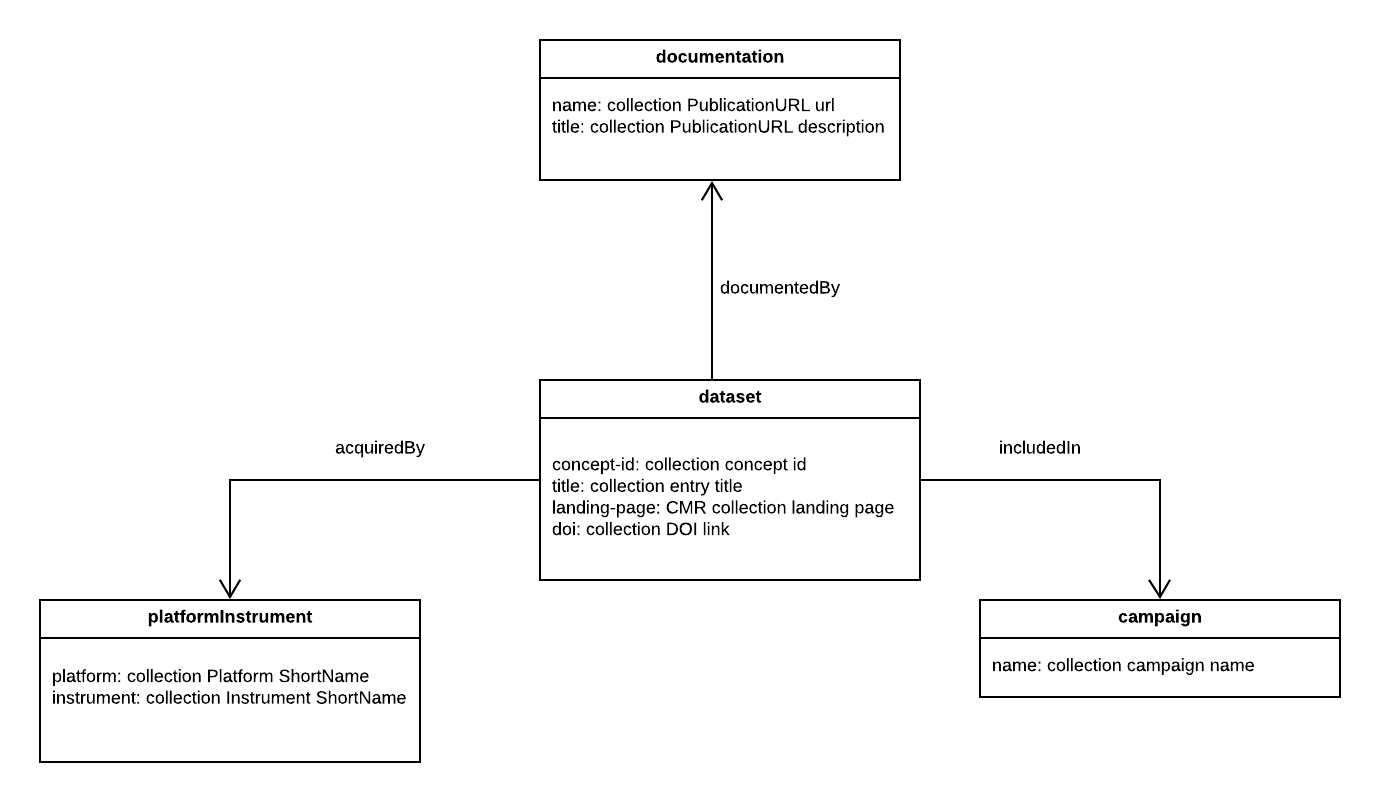
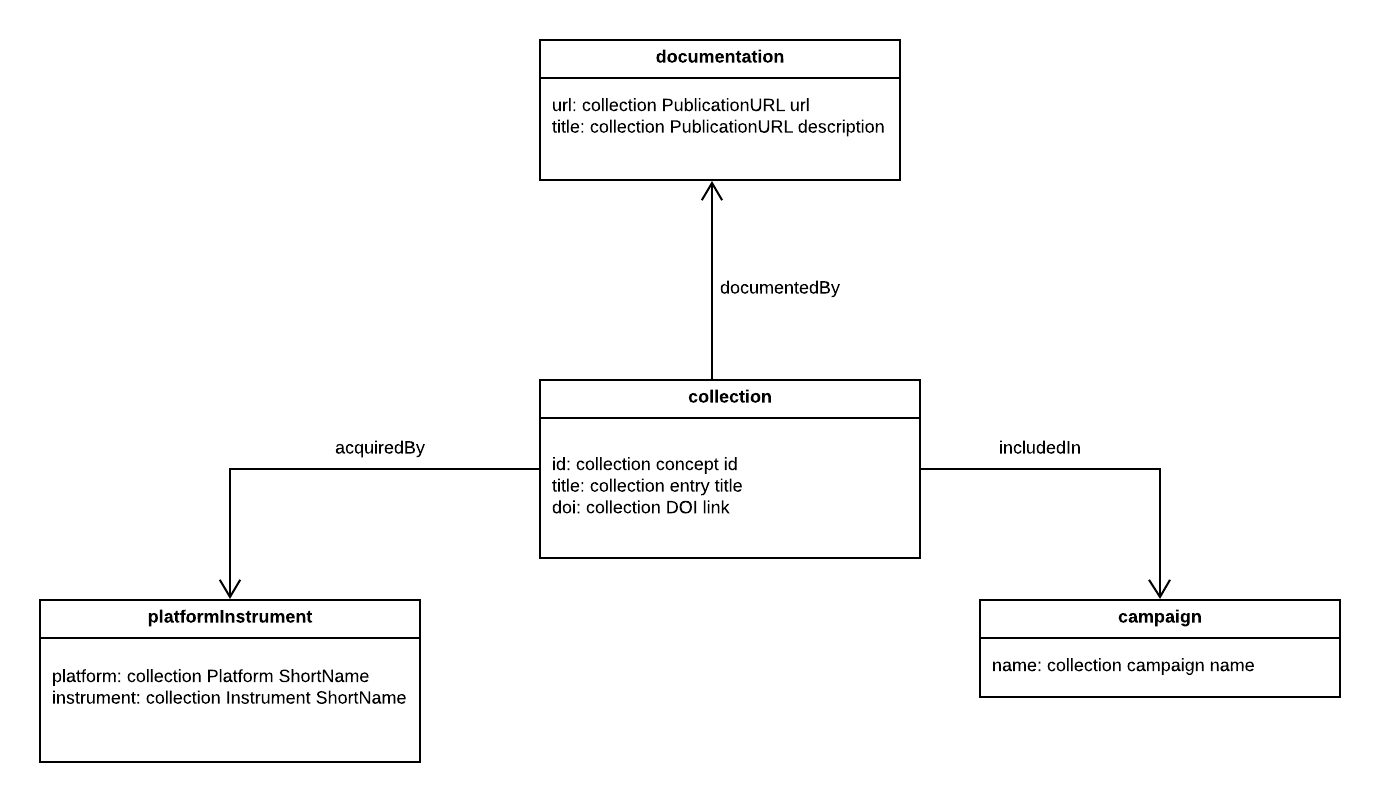
CMR-7602: Clean up canonical properties and rename dataset vertex.

diff --git a/graph-db/serverless/src/utils/cmr/indexCmrCollection.js b/graph-db/serverless/src/utils/cmr/indexCmrCollection.js
@@ -10,11 +10,11 @@ const gremlinStatistics = gremlin.process.statics
 
 /**
  * Given a collection from the CMR, index it into Gremlin
- * @param {JSON} collection collection object from `items` array in cmr response
+ * @param {JSON} collectionObj collection object from `items` array in cmr response
  * @param {Gremlin Traversal Object} gremlinConnection connection to gremlin server
  * @returns
  */
-export const indexCmrCollection = async (collection, gremlinConnection) => {
+export const indexCmrCollection = async (collectionObj, gremlinConnection) => {
   const {
     meta: {
       'concept-id': conceptId
@@ -28,35 +28,24 @@ export const indexCmrCollection = async (collection, gremlinConnection) => {
       Platforms: platforms,
       RelatedUrls: relatedUrls
     }
-  } = collection
+  } = collectionObj
 
   // delete the collection first so that we can clean up its related documentation vertices
   await deleteCmrCollection(conceptId, gremlinConnection)
 
-  let doiUrl = 'Not provided'
-  let landingPage = `${process.env.CMR_ROOT}/concepts/${conceptId}.html`
-
-  if (doiDescription) {
-    // Take the second element from the split method
-    const [, doiAddress] = doiDescription.split(':')
-    doiUrl = `https://dx.doi.org/${doiAddress}`
-    landingPage = doiUrl
-  }
-
-  let dataset = null
+  let collection = null
   try {
     // Use `fold` and `coalesce` to check existance of vertex, and create one if none exists.
-    dataset = await gremlinConnection
+    collection = await gremlinConnection
       .V()
-      .hasLabel('dataset')
-      .has('concept-id', conceptId)
+      .hasLabel('collection')
+      .has('id', conceptId)
       .fold()
       .coalesce(
         gremlinStatistics.unfold(),
-        gremlinConnection.addV('dataset')
-          .property('landing-page', landingPage)
+        gremlinConnection.addV('collection')
           .property('title', entryTitle)
-          .property('concept-id', conceptId)
+          .property('id', conceptId)
           .property('doi', doiDescription || 'Not provided')
       )
       .next()
@@ -66,28 +55,28 @@ export const indexCmrCollection = async (collection, gremlinConnection) => {
     return false
   }
 
-  const { value = {} } = dataset
-  const { id: datasetId } = value
+  const { value = {} } = collection
+  const { id: collectionId } = value
 
   if (projects && projects.length > 0) {
     await projects.forEachAsync(async (project) => {
-      await indexCampaign(project, gremlinConnection, datasetId, conceptId)
+      await indexCampaign(project, gremlinConnection, collectionId, conceptId)
     })
   }
 
   if (platforms && platforms.length > 0) {
     await platforms.forEachAsync(async (platform) => {
-      await indexPlatform(platform, gremlinConnection, datasetId, conceptId)
+      await indexPlatform(platform, gremlinConnection, collectionId, conceptId)
     })
   }
 
   if (relatedUrls && relatedUrls.length > 0) {
     await relatedUrls.forEachAsync(async (relatedUrl) => {
-      await indexRelatedUrl(relatedUrl, gremlinConnection, datasetId, conceptId)
+      await indexRelatedUrl(relatedUrl, gremlinConnection, collectionId, conceptId)
     })
   }
 
-  console.log(`Dataset vertex [${datasetId}] indexed for collection [${conceptId}]`)
+  console.log(`Collection vertex [${collectionId}] indexed for collection [${conceptId}]`)
 
   return true
 }

diff --git a/graph-db/serverless/src/testUtil/verifyDocumentation.js b/graph-db/serverless/src/testUtil/verifyDocumentation.js
@@ -2,11 +2,11 @@ import gremlin from 'gremlin'
 
 const gremlinStatistics = gremlin.process.statics
 
-export const verifyDocumentationExistInGraphDb = async (datasetTitle, docName) => {
+export const verifyDocumentationExistInGraphDb = async (datasetTitle, url) => {
   // verify the dataset vertex with the given title exists
   const dataset = await global.testGremlinConnection
     .V()
-    .has('dataset', 'title', datasetTitle)
+    .has('collection', 'title', datasetTitle)
     .next()
   const { value: { id: datasetId } } = dataset
   expect(datasetId).not.toBe(null)
@@ -14,7 +14,7 @@ export const verifyDocumentationExistInGraphDb = async (datasetTitle, docName) =
   // verify the documentation vertex with the given name exists
   const doc = await global.testGremlinConnection
     .V()
-    .has('documentation', 'name', docName)
+    .has('documentation', 'url', url)
     .next()
   const { value: { id: docId } } = doc
   expect(docId).not.toBe(null)
@@ -22,20 +22,20 @@ export const verifyDocumentationExistInGraphDb = async (datasetTitle, docName) =
   // verify the edge exists between the two vertices
   const record = await global.testGremlinConnection
     .V()
-    .has('dataset', 'title', datasetTitle)
+    .has('collection', 'title', datasetTitle)
     .outE('documentedBy')
     .filter(gremlinStatistics.inV()
-      .has('documentation', 'name', docName))
+      .has('documentation', 'url', url))
     .next()
   const { value: { id: edgeId } } = record
   expect(edgeId).not.toBe(null)
 }
 
-export const verifyDocumentationNotExistInGraphDb = async (datasetTitle, docName) => {
+export const verifyDocumentationNotExistInGraphDb = async (datasetTitle, url) => {
   // verify the dataset vertex with the given title does not exist
   const dataset = await global.testGremlinConnection
     .V()
-    .has('dataset', 'title', datasetTitle)
+    .has('collection', 'title', datasetTitle)
     .next()
   const { value: datasetValue } = dataset
   expect(datasetValue).toBe(null)
@@ -43,7 +43,7 @@ export const verifyDocumentationNotExistInGraphDb = async (datasetTitle, docName
   // verify the documentation vertex with the given name does not exist
   const doc = await global.testGremlinConnection
     .V()
-    .has('documentation', 'name', docName)
+    .has('documentation', 'url', url)
     .next()
   const { value: docValue } = doc
   expect(docValue).toBe(null)

diff --git a/graph-db/serverless/src/testUtil/verifyPlatformInstrument.js b/graph-db/serverless/src/testUtil/verifyPlatformInstrument.js
@@ -30,7 +30,7 @@ const verifyPlatformInstrumentExistInGraphDb = async (
   if (instrumentName) {
     record = await global.testGremlinConnection
       .V()
-      .has('dataset', 'title', datasetTitle)
+      .has('collection', 'title', datasetTitle)
       .outE('acquiredBy')
       .filter(gremlinStatistics.inV()
         .has('platformInstrument', 'platform', platformName)
@@ -39,7 +39,7 @@ const verifyPlatformInstrumentExistInGraphDb = async (
   } else {
     record = await global.testGremlinConnection
       .V()
-      .has('dataset', 'title', datasetTitle)
+      .has('collection', 'title', datasetTitle)
       .outE('acquiredBy')
       .filter(gremlinStatistics.inV()
         .has('platformInstrument', 'platform', platformName))
@@ -54,7 +54,7 @@ export const verifyPlatformInstrumentsExistInGraphDb = async (datasetTitle, attr
   // verify the dataset vertex with the given title exists
   const dataset = await global.testGremlinConnection
     .V()
-    .has('dataset', 'title', datasetTitle)
+    .has('collection', 'title', datasetTitle)
     .next()
   const { value: { id: datasetId } } = dataset
   expect(datasetId).not.toBe(null)
@@ -97,7 +97,7 @@ export const verifyPlatformInstrumentsNotExistInGraphDb = async (datasetTitle, a
   // verify the dataset vertex with the given title does not exist
   const dataset = await global.testGremlinConnection
     .V()
-    .has('dataset', 'title', datasetTitle)
+    .has('collection', 'title', datasetTitle)
     .next()
   const { value: datasetValue } = dataset
   expect(datasetValue).toBe(null)

diff --git a/graph-db/serverless/src/testUtil/verifyCampaign.js b/graph-db/serverless/src/testUtil/verifyCampaign.js
@@ -6,7 +6,7 @@ export const verifyCampaignExistInGraphDb = async (datasetTitle, campaignName) =
   // verify the dataset vertex with the given title exists
   const dataset = await global.testGremlinConnection
     .V()
-    .has('dataset', 'title', datasetTitle)
+    .has('collection', 'title', datasetTitle)
     .next()
   const { value: { id: datasetId } } = dataset
   expect(datasetId).not.toBe(null)
@@ -22,7 +22,7 @@ export const verifyCampaignExistInGraphDb = async (datasetTitle, campaignName) =
   // verify the edge exists between the two vertices
   const record = await global.testGremlinConnection
     .V()
-    .has('dataset', 'title', datasetTitle)
+    .has('collection', 'title', datasetTitle)
     .outE('includedIn')
     .filter(gremlinStatistics.inV()
       .has('campaign', 'name', campaignName))
@@ -35,7 +35,7 @@ export const verifyCampaignNotExistInGraphDb = async (datasetTitle, campaignName
   // verify the dataset vertex with the given title does not exist
   const dataset = await global.testGremlinConnection
     .V()
-    .has('dataset', 'title', datasetTitle)
+    .has('collection', 'title', datasetTitle)
     .next()
   const { value: datasetValue } = dataset
   expect(datasetValue).toBe(null)

diff --git a/graph-db/serverless/src/indexCmrCollection/__test__/handler.test.js b/graph-db/serverless/src/indexCmrCollection/__test__/handler.test.js
@@ -4,7 +4,7 @@ import indexCmrCollection from '../handler'
 
 import { updateCollection, deleteCollection } from '../../testUtil/indexCollection'
 
-import { verifyDatasetPropertiesInGraphDb } from '../../testUtil/verifyDataset'
+import { verifyCollectionPropertiesInGraphDb } from '../../testUtil/verifyCollection'
 
 import {
   verifyDocumentationExistInGraphDb, verifyDocumentationNotExistInGraphDb
@@ -47,11 +47,10 @@ describe('indexCmrCollection handler', () => {
       }
     )
 
-    await verifyDatasetPropertiesInGraphDb(
+    await verifyCollectionPropertiesInGraphDb(
       {
         datasetTitle,
         conceptId,
-        landingPage: 'https://dx.doi.org/10.16904/envidat.166',
         doi: 'doi:10.16904/envidat.166'
       }
     )

diff --git a/graph-db/serverless/src/utils/cmr/indexRelatedUrl.js b/graph-db/serverless/src/utils/cmr/indexRelatedUrl.js
@@ -28,11 +28,11 @@ const indexRelatedUrl = async (relatedUrl, gremlinConnection, dataset, conceptId
     // Use `fold` and `coalesce` to check existance of vertex, and create one if none exists.
     const documentationVertex = await gremlinConnection
       .V()
-      .has('documentation', 'name', url)
+      .has('documentation', 'url', url)
       .fold()
       .coalesce(
         gremlinStatistics.unfold(),
-        gremlinConnection.addV('documentation').property('name', url).property('title', description || subType)
+        gremlinConnection.addV('documentation').property('url', url).property('title', description || subType)
       )
       .next()
 

diff --git a/graph-db/serverless/src/utils/cmr/deleteCmrCollection.js b/graph-db/serverless/src/utils/cmr/deleteCmrCollection.js
@@ -16,7 +16,7 @@ const deleteLinkedVertices = async (conceptId, gremlinConnection, vertexLabel, e
   try {
     await gremlinConnection
       .V()
-      .has('dataset', 'concept-id', conceptId)
+      .has('collection', 'id', conceptId)
       .outE(edgeName)
       .inV()
       .where(gremlinStatistics.inE(edgeName).count().is(lte(1)))
@@ -60,7 +60,7 @@ export const deleteCmrCollection = async (conceptId, gremlinConnection) => {
   try {
     await gremlinConnection
       .V()
-      .has('dataset', 'concept-id', conceptId)
+      .has('collection', 'id', conceptId)
       .drop()
       .next()
   } catch (error) {

diff --git a/graph-db/serverless/src/testUtil/verifyCollection.js b/graph-db/serverless/src/testUtil/verifyCollection.js
@@ -1,0 +1,16 @@
+export const verifyCollectionPropertiesInGraphDb = async (attrs) => {
+  const {
+    conceptId, datasetTitle, doi
+  } = attrs
+
+  // verify the collection vertex with the given properties exists
+  const collection = await global.testGremlinConnection
+    .V()
+    .has('collection', 'title', datasetTitle)
+    .has('id', conceptId)
+    .has('doi', doi)
+    .next()
+
+  const { value: { id: collectionId } } = collection
+  expect(collectionId).not.toBe(null)
+}

diff --git a/graph-db/README.md b/graph-db/README.md
@@ -145,39 +145,39 @@ curl -XPOST https://cmr.sit.earthdata.nasa.gov/graphdb  -d '{"gremlin":"g.V().li
 
 To see all collections that share the same documentation URL with the collection (C1200400842-GHRC):
 ```
-curl -XPOST https://cmr.sit.earthdata.nasa.gov/graphdb  -d '{"gremlin":"g.V().hasLabel(\"dataset\").has(\"concept-id\", \"C1200400842-GHRC\").outE(\"documentedBy\").inV().hasLabel(\"documentation\").inE(\"documentedBy\").outV().hasLabel(\"dataset\").valueMap()"}'
+curl -XPOST https://cmr.sit.earthdata.nasa.gov/graphdb  -d '{"gremlin":"g.V().hasLabel(\"collection\").has(\"id\", \"C1200400842-GHRC\").outE(\"documentedBy\").inV().hasLabel(\"documentation\").inE(\"documentedBy\").outV().hasLabel(\"collection\").valueMap()"}'
 ```
 
 To see all collections that are associated with a collection (C1200400842-GHRC) with the result grouped by shared documentation:
 ```
-curl -XPOST https://cmr.sit.earthdata.nasa.gov/graphdb  -d '{"gremlin":"g.V().has(\"dataset\", \"concept-id\", \"C1200400842-GHRC\").as(\"a\").outE(\"documentedBy\").inV().project(\"shared-link\", \"concept-id\").by(\"name\").by(inE(\"documentedBy\").outV().hasLabel(\"dataset\").where(neq(\"a\")).values(\"concept-id\").fold())"}'
+curl -XPOST https://cmr.sit.earthdata.nasa.gov/graphdb  -d '{"gremlin":"g.V().has(\"collection\", \"id\", \"C1200400842-GHRC\").as(\"a\").outE(\"documentedBy\").inV().project(\"shared-link\", \"id\").by(\"url\").by(inE(\"documentedBy\").outV().hasLabel(\"collection\").where(neq(\"a\")).values(\"id\").fold())"}'
 ```
 
 To see all collections that are associated with a collection (C1200400842-GHRC) with the result grouped by shared campaigns:
 ```
-curl -XPOST https://cmr.sit.earthdata.nasa.gov/graphdb  -d '{"gremlin":"g.V().has(\"dataset\", \"concept-id\", \"C1200400842-GHRC\").as(\"a\").outE(\"includedIn\").inV().project(\"campaign\", \"concept-id\").by(\"name\").by(inE(\"includedIn\").outV().hasLabel(\"dataset\").where(neq(\"a\")).values(\"concept-id\").fold())"}'
+curl -XPOST https://cmr.sit.earthdata.nasa.gov/graphdb  -d '{"gremlin":"g.V().has(\"collection\", \"id\", \"C1200400842-GHRC\").as(\"a\").outE(\"includedIn\").inV().project(\"campaign\", \"id\").by(\"name\").by(inE(\"includedIn\").outV().hasLabel(\"collection\").where(neq(\"a\")).values(\"id\").fold())"}'
 ```
 
 To see all collections that are associated with a collection (C1200400842-GHRC) with the result grouped by shared platform and instruments:
 ```
-curl -XPOST https://cmr.sit.earthdata.nasa.gov/graphdb  -d '{"gremlin":"g.V().has(\"dataset\", \"concept-id\", \"C1200400842-GHRC\").as(\"a\").outE(\"acquiredBy\").inV().project(\"platformInstrument\", \"concept-id\").by(valueMap()).by(inE(\"acquiredBy\").outV().hasLabel(\"dataset\").where(neq(\"a\")).values(\"concept-id\").fold())"}'
+curl -XPOST https://cmr.sit.earthdata.nasa.gov/graphdb  -d '{"gremlin":"g.V().has(\"collection\", \"id\", \"C1200400842-GHRC\").as(\"a\").outE(\"acquiredBy\").inV().project(\"platformInstrument\", \"id\").by(valueMap()).by(inE(\"acquiredBy\").outV().hasLabel(\"collection\").where(neq(\"a\")).values(\"id\").fold())"}'
 ```
 
 For users have write access to graphdb, they can also add vertices and edges between vertices. For example:
 
 To create a collection vertex:
 ```
-curl -XPOST https://cmr.sit.earthdata.nasa.gov/graphdb  -d '{"gremlin":"g.addV(\"dataset\").property(\"name\", \"https://dx.doi.org/undefined\").property(\"title\", \"GPM Ground Validation Precipitation Imaging Package (PIP) ICE POP V1\").property(\"concept-id\", \"C1233352242-GHRC\").property(\"doi\", \"10.5067/GPMGV/ICEPOP/PIP/DATA101\")"}'
+curl -XPOST https://cmr.sit.earthdata.nasa.gov/graphdb  -d '{"gremlin":"g.addV(\"collection\").property(\"title\", \"GPM Ground Validation Precipitation Imaging Package (PIP) ICE POP V1\").property(\"id\", \"C1233352242-GHRC\").property(\"doi\", \"10.5067/GPMGV/ICEPOP/PIP/DATA101\")"}'
 ```
 
 To create a documentation vertex:
 ```
-curl -XPOST https://cmr.sit.earthdata.nasa.gov/graphdb  -d '{"gremlin":"g.addV(\"documentation\").property(\"name\", \"https://ntrs.nasa.gov/archive/nasa/casi.ntrs.nasa.gov/20180003615.pdf\").property(\"title\", \"NASA Participation in the International Collaborative Experiments for Pyeongchang 2018 Olympic and Paralympic Winter Games (ICE-POP 2018)\")"}'
+curl -XPOST https://cmr.sit.earthdata.nasa.gov/graphdb  -d '{"gremlin":"g.addV(\"documentation\").property(\"url\", \"https://ntrs.nasa.gov/archive/nasa/casi.ntrs.nasa.gov/20180003615.pdf\").property(\"title\", \"NASA Participation in the International Collaborative Experiments for Pyeongchang 2018 Olympic and Paralympic Winter Games (ICE-POP 2018)\")"}'
 ```
 
 To create an edge from the above documentation vertex to the collection vertex:
 ```
-curl -XPOST https://cmr.sit.earthdata.nasa.gov/graphdb  -d '{"gremlin":"g.V().hasLabel(\"dataset\").has(\"concept-id\", \"C1233352242-GHRC\").addE(\"documentedBy\").to(g.V().hasLabel(\"documentation\").has(\"name\", \"https://ntrs.nasa.gov/archive/nasa/casi.ntrs.nasa.gov/20180003615.pdf\"))"}'
+curl -XPOST https://cmr.sit.earthdata.nasa.gov/graphdb  -d '{"gremlin":"g.V().hasLabel(\"collection\").has(\"id\", \"C1233352242-GHRC\").addE(\"documentedBy\").to(g.V().hasLabel(\"documentation\").has(\"url\", \"https://ntrs.nasa.gov/archive/nasa/casi.ntrs.nasa.gov/20180003615.pdf\"))"}'
 ```
 
 ### Access via SSH tunnel and Gremlin Console locally
